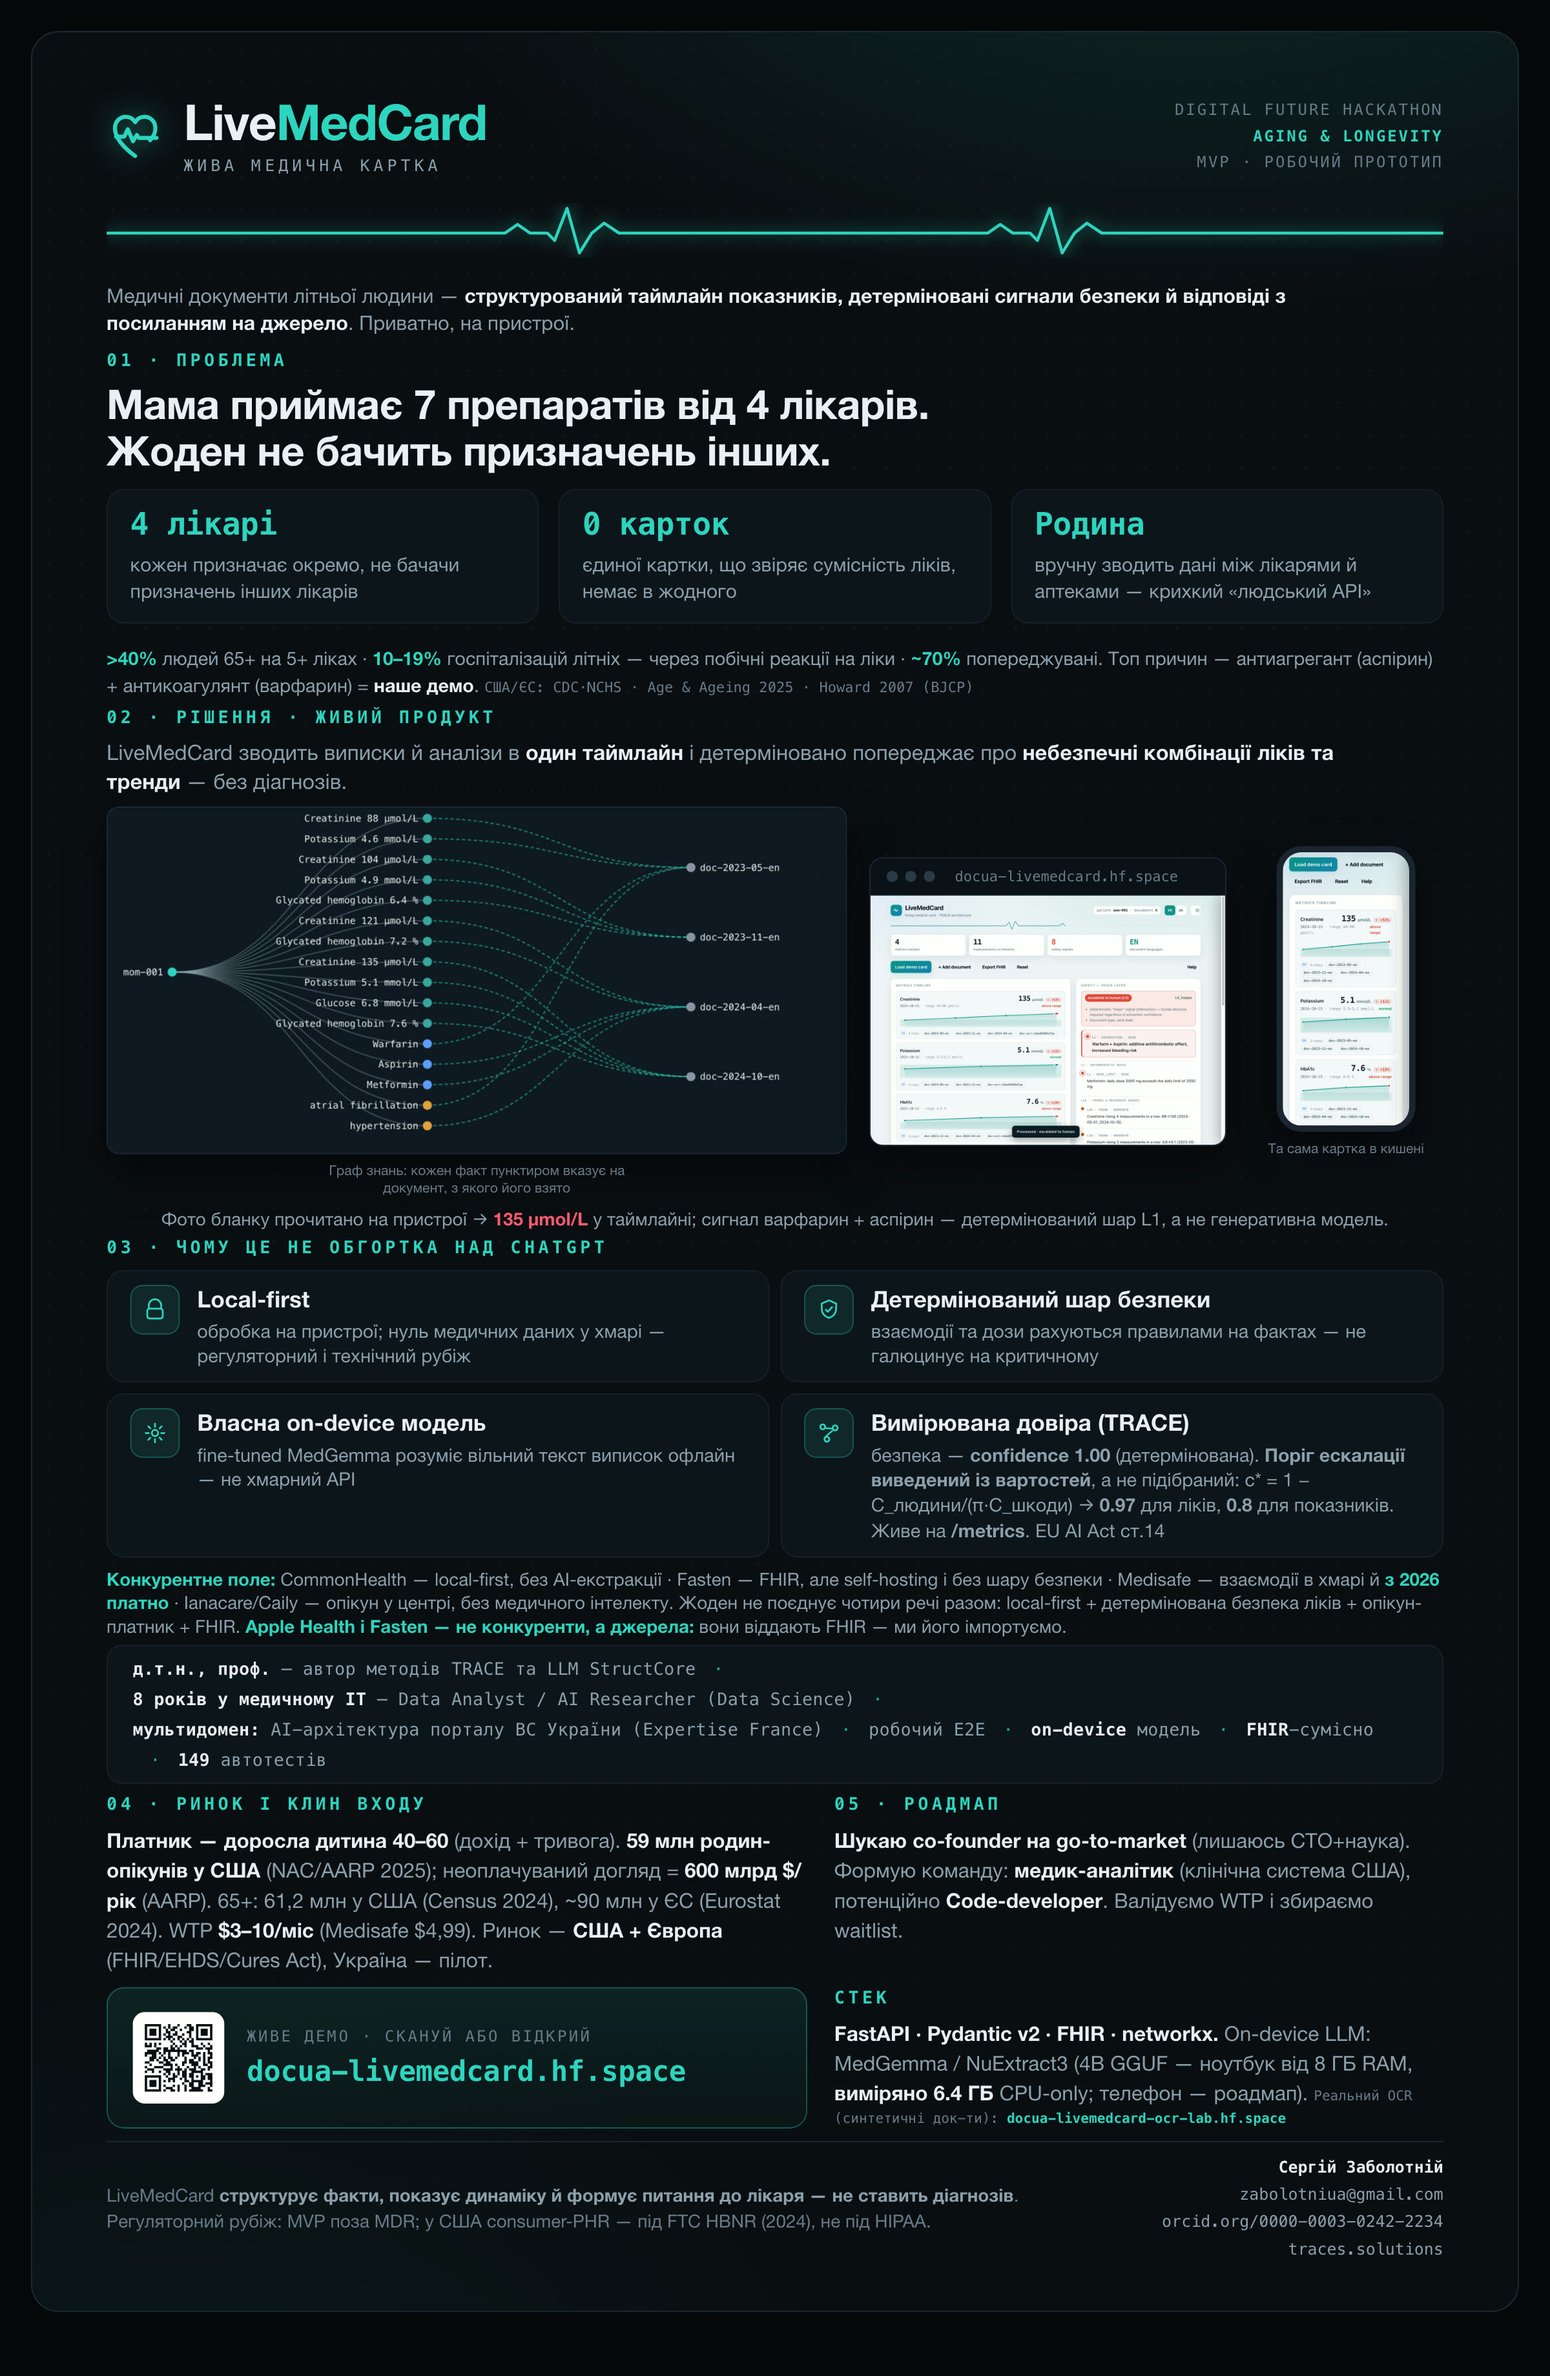
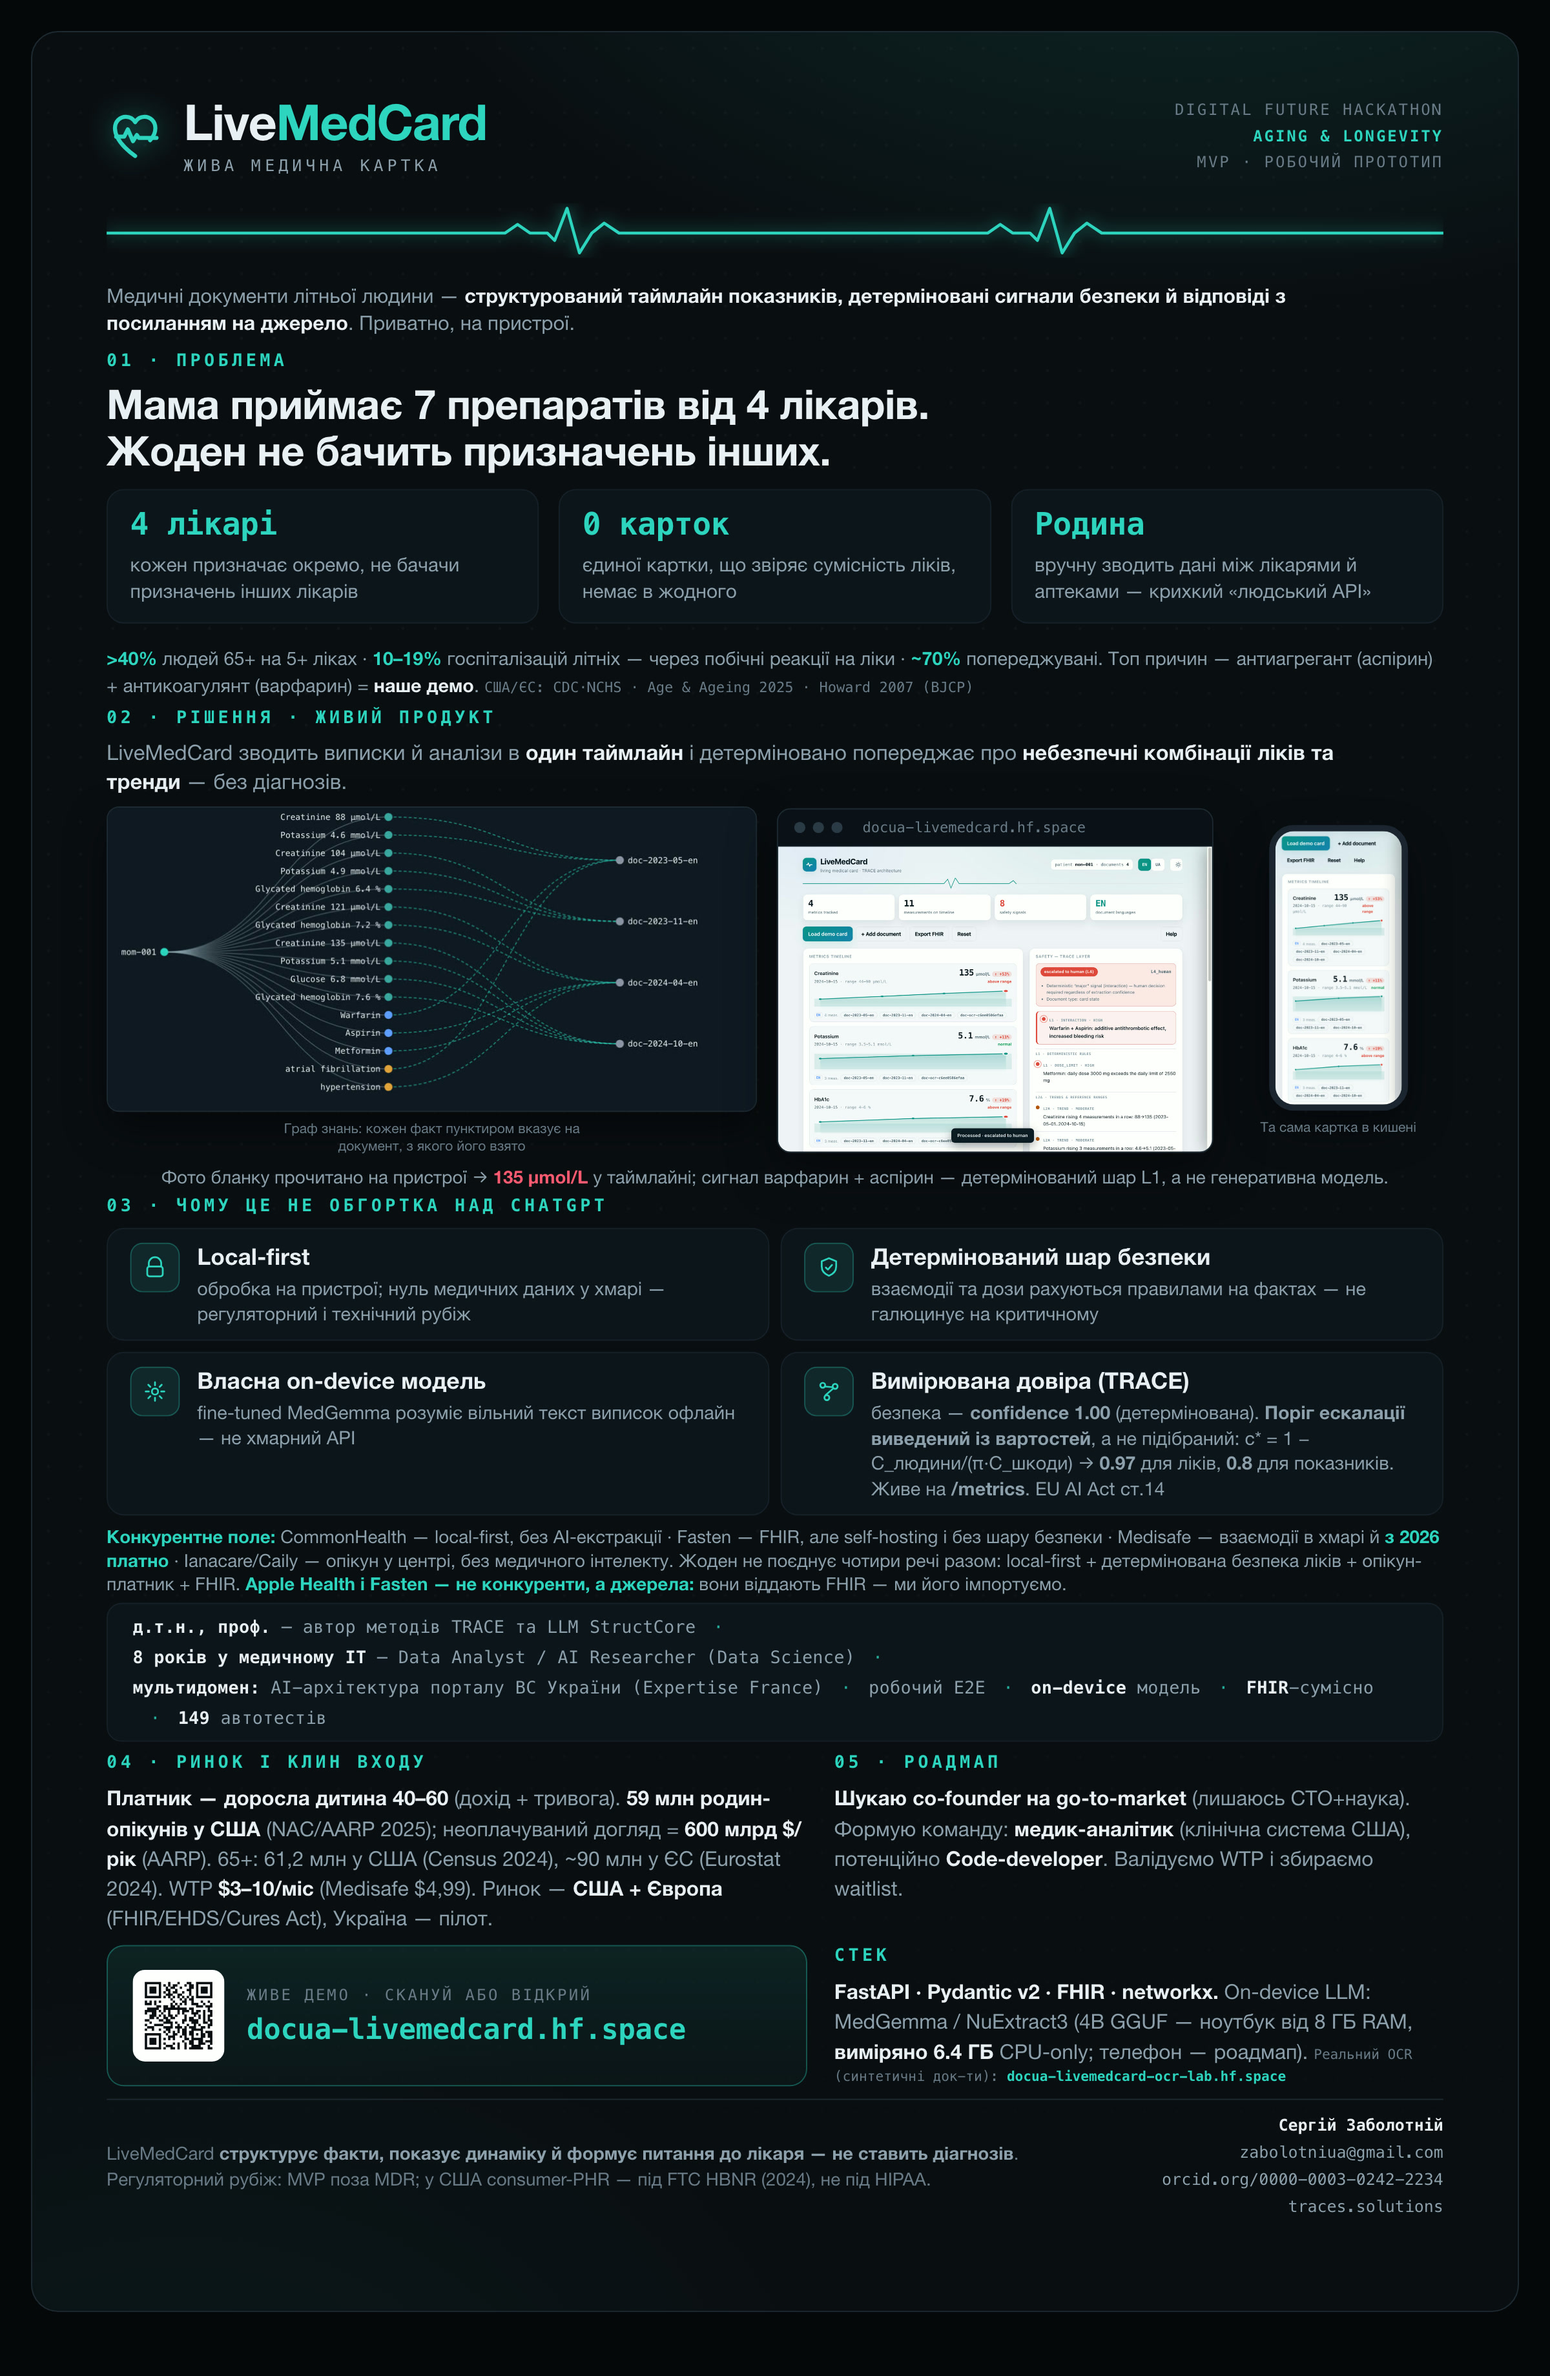
docs(pitch): onepager — larger card screenshot, smaller graph in the demo row

diff --git a/pitch/onepager.html b/pitch/onepager.html
@@ -177,10 +177,10 @@
   .boundary .sig b{color:var(--fg);font-weight:600}
   .shotframe{border:1px solid var(--line);border-radius:11px;overflow:hidden;background:#0d141b;max-width:326px;margin:0 auto;box-shadow:0 16px 40px rgba(0,0,0,.4)}
   /* Три погляди на один продукт: провенанс (граф) · картка (браузер) · кишеня (телефон) */
-  .demo3{display:grid;grid-template-columns:1.75fr 288px 0.46fr;gap:18px;align-items:center;justify-items:center}
+  .demo3{display:grid;grid-template-columns:1.3fr 352px 0.42fr;gap:16px;align-items:center;justify-items:center}
   .demo3 figure{margin:0;width:100%;display:flex;flex-direction:column;align-items:center}
   .demo3 figcaption{font-size:11px;line-height:1.3;color:var(--muted-2);text-align:center;margin-top:6px;max-width:260px}
-  .demo3 .shotframe{max-width:288px}
+  .demo3 .shotframe{max-width:352px}
   .side img{width:100%;border:1px solid var(--line);border-radius:10px;background:#0d141b;
     box-shadow:0 14px 34px rgba(0,0,0,.45)}
   .phone{position:relative}
